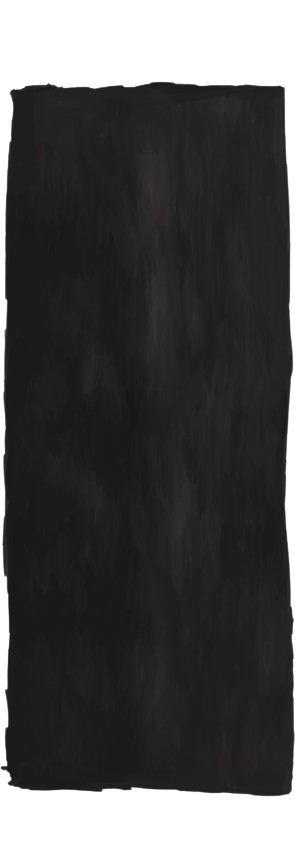
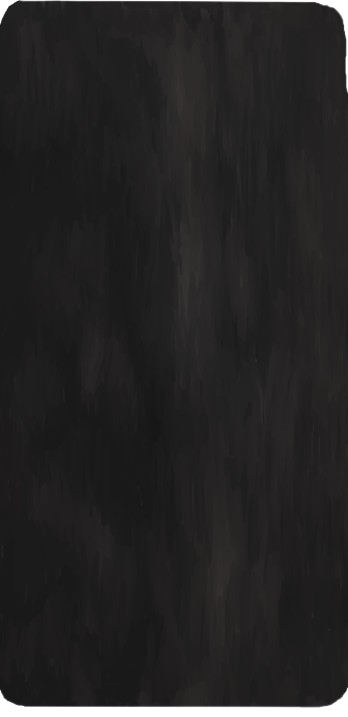
feat: add new background and update ArticleCard, SectionTitle components

Changed region(s): [[0.0, 0.0, 1.0, 1.0]]

diff --git a/src/utils/images.js b/src/utils/images.js
@@ -2,6 +2,7 @@ import logo from '~/assets/images/Logo/logo.jpg';
 import logo_remove_bg from '~/assets/images/Logo/logo-remove-bg.png';
 import poster from '~/assets/images/Poster/poster_black_white.jpg';
 import bg_studio from '~/assets/images/Background/bg-studio.png';
+import bg_studio_text from '~/assets/images/Background/bg-studio-text.png';
 import img_1 from '~/assets/images/img-1.jpg';
 import img_2 from '~/assets/images/img-2.jpg';
 import img_3 from '~/assets/images/img-3.jpg';
@@ -9,4 +10,4 @@ import member_1 from '~/assets/images/TeamMember/member_1.png';
 import member_2 from '~/assets/images/TeamMember/member_2.png';
 import member_3 from '~/assets/images/TeamMember/member_3.png';
 
-export { logo, logo_remove_bg, poster, img_1, img_2, img_3, bg_studio, member_1, member_2, member_3 };
+export { logo, logo_remove_bg, poster, img_1, img_2, img_3, bg_studio, bg_studio_text, member_1, member_2, member_3 };

diff --git a/src/components/common/ArticleCard/index.js b/src/components/common/ArticleCard/index.js
@@ -1,12 +1,12 @@
 import classNames from 'classnames/bind';
 import styles from './ArticleCard.module.scss';
-import { bg_studio } from '~/utils/images';
+import { bg_studio_text } from '~/utils/images';
 
 const cx = classNames.bind(styles);
 
 const ArticleCard = ({ imageSrc, title, description, link = '#' }) => {
     return (
-        <div className={cx('card')} style={{ backgroundImage: `url(${bg_studio})` }}>
+        <div className={cx('card')} style={{ backgroundImage: `url(${bg_studio_text})` }}>
             <div className={cx('card-image-wrapper')}>
                 <img src={imageSrc} alt={title} className={cx('card-image')} />
             </div>

diff --git a/src/components/common/SectionTitle/index.js b/src/components/common/SectionTitle/index.js
@@ -1,12 +1,12 @@
 import classNames from 'classnames/bind';
 import styles from './SectionTitle.module.scss';
-import { bg_studio } from '~/utils/images';
+import { bg_studio_text } from '~/utils/images';
 
 const cx = classNames.bind(styles);
 
 const SectionTitle = ({ children }) => {
     return (
-        <h2 className={cx('section-title')} style={{ backgroundImage: `url(${bg_studio})` }}>
+        <h2 className={cx('section-title')} style={{ backgroundImage: `url(${bg_studio_text})` }}>
             {children}
         </h2>
     );
